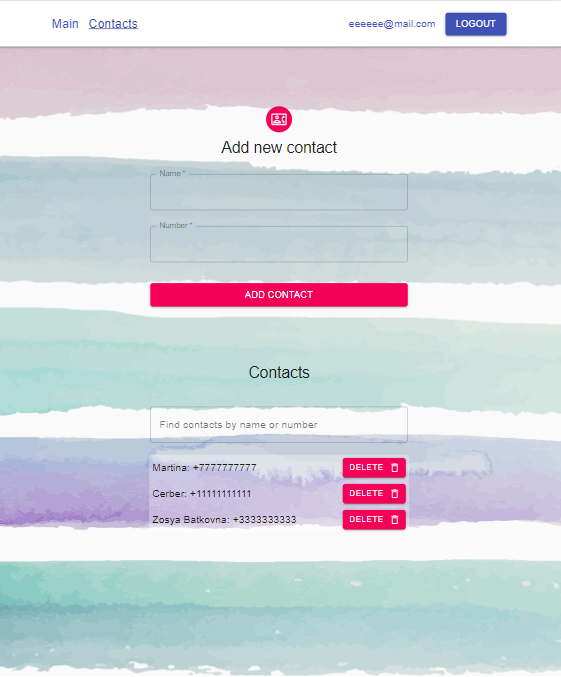
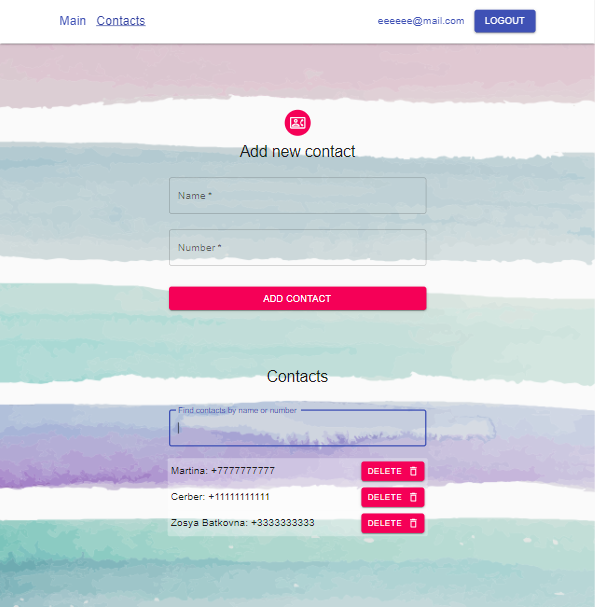
change mobile styles

diff --git a/src/views/contacts-view/contactsView.jsx b/src/views/contacts-view/contactsView.jsx
@@ -4,6 +4,7 @@ import { getContacts } from "../../redux/contacts/contacts-operations";
 import ContactsForm from "../../components/ContactsForm";
 import ContactList from "../../components/ContactList";
 import Filter from "../../components/Filter";
+import Container from "../../components/UI/Container";
 import Loader from "react-loader-spinner";
 import { getIsLoading } from "../../redux/contacts/contacts-selectors";
 import { title } from "./contacts-view.module.css";
@@ -17,7 +18,7 @@ const Contacts = () => {
   }, [dispatch]);
 
   return (
-    <>
+    <Container>
       <ContactsForm />
       <h2 className={title}>Contacts</h2>
       <Filter />
@@ -32,7 +33,7 @@ const Contacts = () => {
       ) : (
         <ContactList />
       )}
-    </>
+    </Container>
   );
 };
 

diff --git a/src/components/UserMenu/UserMenu.module.css b/src/components/UserMenu/UserMenu.module.css
@@ -1,16 +1,22 @@
 .wrapper {
-    display: flex;
-    align-items: center;
-
+  display: flex;
+  align-items: center;
 }
 .email {
-    margin-right: 15px;
-    color: #3f51b5;
-    font-size: 1rem;
+  margin-right: 7px;
+  color: #3f51b5;
+  font-size: 0.8rem;
   font-weight: 400;
   line-height: 1.3;
   letter-spacing: 0em;
 }
 .button {
-    height: 35px;
+  height: 35px;
+}
+
+@media screen and (min-width: 768px) {
+  .email {
+    font-size: 1rem;
+    margin-right: 15px;
+  }
 }

diff --git a/src/App.css b/src/App.css
@@ -22,5 +22,5 @@
 .contentWrapper {
   height: 100%;
   margin: 70px auto auto auto;
-  padding: 20px;
+  padding-top: 30px;
 }
